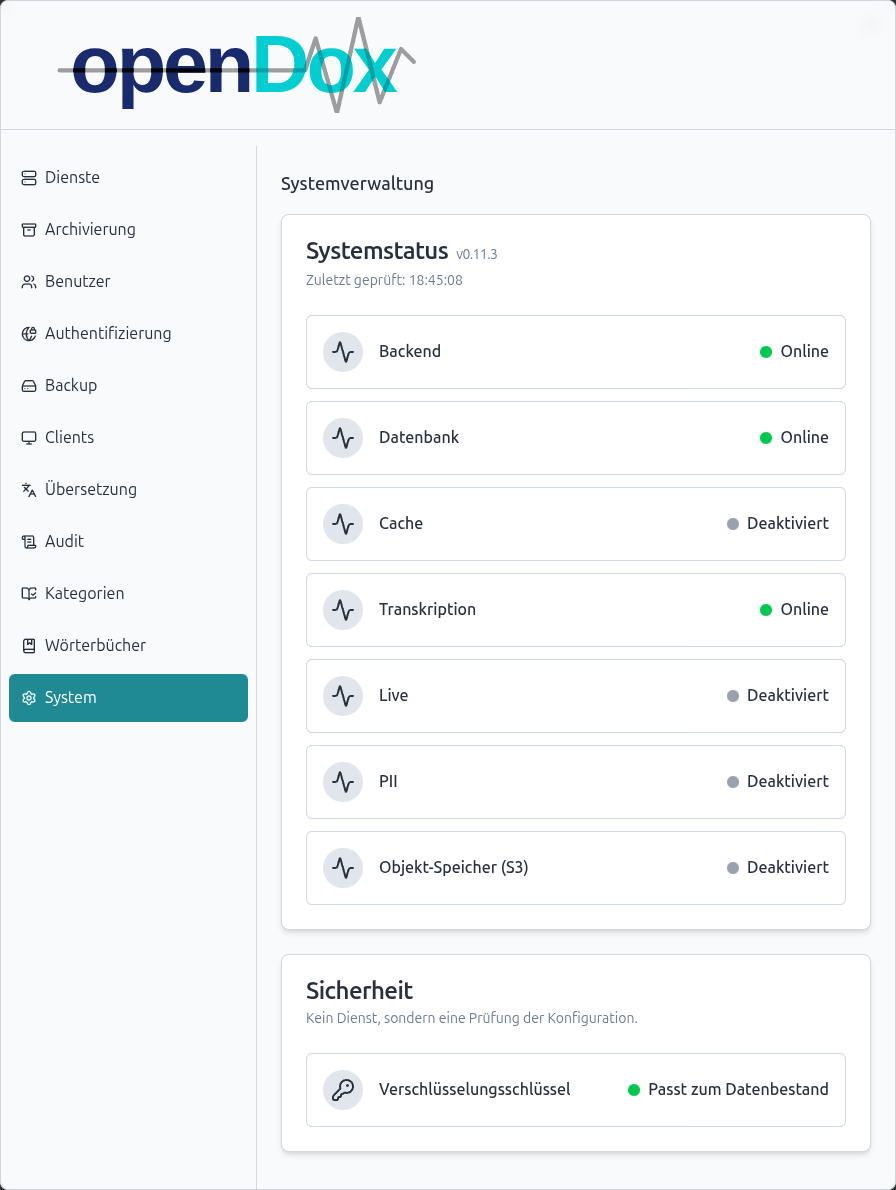
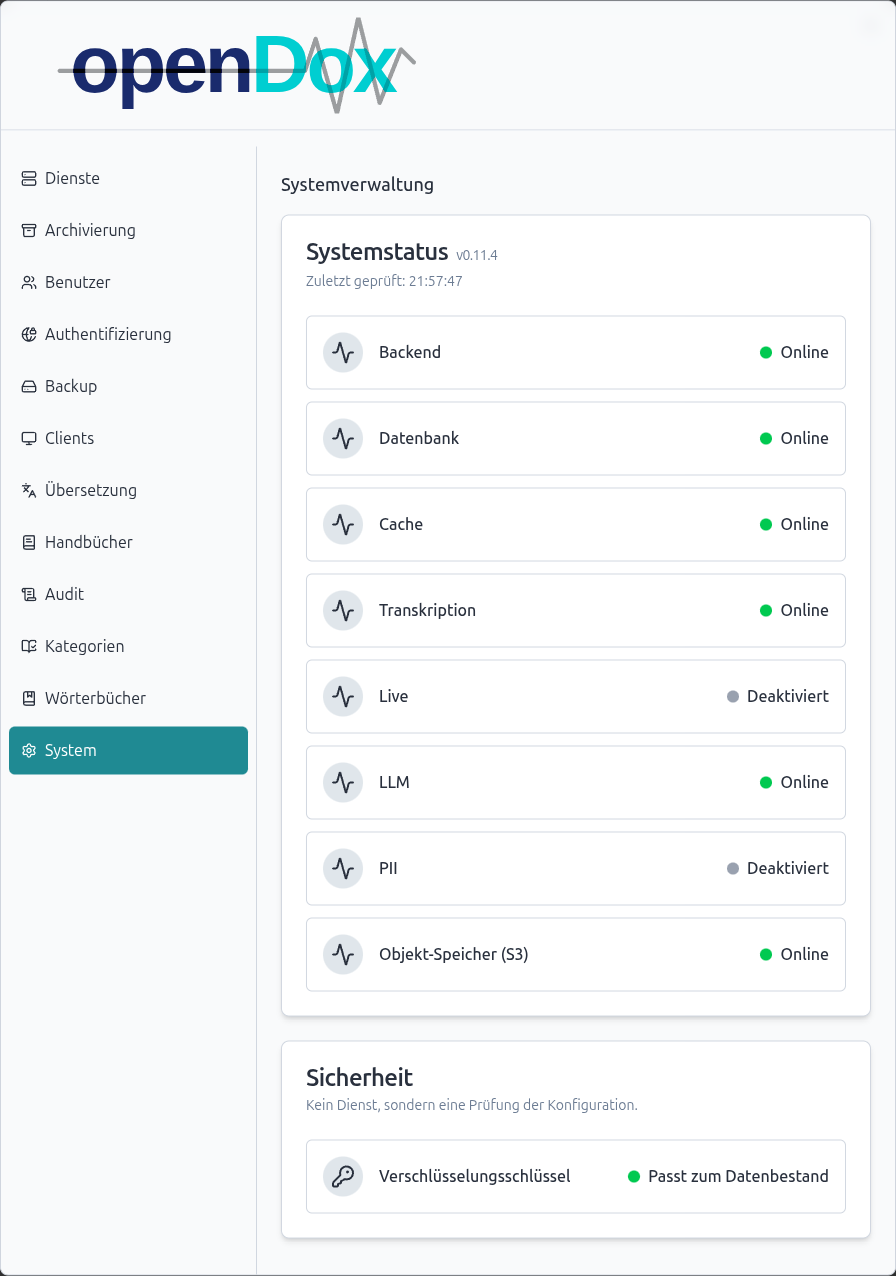
docs: Handbücher, DSFA und Agent-Guide an LLM-Status, ASR-Fehler und Handbuch-Tab angepasst
System-Screenshots neu, DSFA mit Risiko R13 zur Übersetzung.

diff --git a/.agents/AGENTS.md b/.agents/AGENTS.md
@@ -121,7 +121,7 @@ No automated integration tests for Docker/full-stack scenarios.
 - `asr_factory.py` creates backend instances based on `live_backend` setting (`"parakeet"` / `"disabled"`). `"parakeet"` → `ParakeetStreamBackend` (VAD-segmented streaming over WS). The final backend is always `OpenAICompatibleBackend`. There is deliberately **no** near-live Whisper path (it was removed: fixed-chunk transcription with overlap/LLM smoothing worked poorly) — live text is Parakeet-only, and if the Parakeet connection fails the recording just continues without live text; the final transcription is unaffected.
 - When `live_backend="parakeet"` and `live_api_endpoint` is None, factory falls back to `PARAKEET_API_ENDPOINT` env var
 - Parakeet live text: `record.py` forwards every float32 PCM frame to the Parakeet server's WS; the server's `StreamingSession` runs Silero VAD + Parakeet ONNX, commits segments at pauses (re-decoding the open segment every 0.4s for a live partial) and streams back `{"partial": <open segment>}` / `{"committed": ..., "delta": ...}` / `{"final": ...}`. `record.py` relays `delta` as `{"text": delta}` (appended to `stableTranscript` client-side) and `partial` as `{"partial": ...}` (renders as the live tail). No LLM correction (Parakeet already outputs punctuation). Segmentation and the self-healing partial re-decode are internal to the Parakeet server (`parakeet_server/streaming.py`).
-- **Client-side VAD for the final Whisper call** (always on, whichever server): `OpenAICompatibleBackend.transcribe()` decodes the audio (`vad_segmenter.decode_audio`, ffmpeg for files), cuts silence out with Silero VAD (`modules/silero_vad.py`, onnxruntime, model `backend/components/assets/silero_vad_v6.onnx`) and sends only speech, packed into chunks of ≤ 28 s (`vad_segmenter.segment_speech`), in parallel (`MAX_PARALLEL_CHUNKS`) and with a connection-error retry, then joins the texts in recording order. `prompt` is sent with every chunk. No speech → no server call, empty text. If any chunk fails the whole call returns `""` (never a silently partial transcript). This exists because external servers differ: vLLM hallucinates "Vielen Dank." on silence, loops on a `prompt` (WER 9 % → 36 % measured) and rejects uploads > 25 MB, while the repo's `whisper_server` and e.g. hwdsl2/whisper-server filter silence themselves. `WhisperSettingsModel.vad_min_silence_ms` sets the pause length; `vad_filter` and the other tuning fields are still forwarded to the server as form fields (harmless on already-trimmed chunks).
+- **Client-side VAD for the final Whisper call** (always on, whichever server): `OpenAICompatibleBackend.transcribe()` decodes the audio (`vad_segmenter.decode_audio`, ffmpeg for files), cuts silence out with Silero VAD (`modules/silero_vad.py`, onnxruntime, model `backend/components/assets/silero_vad_v6.onnx`) and sends only speech, packed into chunks of ≤ 28 s (`vad_segmenter.segment_speech`), in parallel (`MAX_PARALLEL_CHUNKS`) and with a connection-error retry, then joins the texts in recording order. `prompt` is sent with every chunk. No speech → no server call, empty text. If audio can't be read, the server is unreachable or any chunk is rejected, `transcribe()` raises `ASRError` (`asr_backends/base.py`, carries the server's message, e.g. a 404 for an unknown model) — never a partial transcript and never `""` for a failure, so the task fails with the real cause instead of feeding an empty text to the LLM. Empty text therefore always means "no speech", and the pipeline then skips the LLM step (`background_transcription_service.py`). `GET /settings/asr-test/` uses `OpenAICompatibleBackend.probe()`: `/models` reachable **and** the configured model listed (`asr_model_not_found`, listing what the server has); a server without a model list counts as ok. The Whisper settings form saves before testing, since the endpoint tests the stored settings. This exists because external servers differ: vLLM hallucinates "Vielen Dank." on silence, loops on a `prompt` (WER 9 % → 36 % measured) and rejects uploads > 25 MB, while the repo's `whisper_server` and e.g. hwdsl2/whisper-server filter silence themselves. `WhisperSettingsModel.vad_min_silence_ms` sets the pause length; `vad_filter` and the other tuning fields are still forwarded to the server as form fields (harmless on already-trimmed chunks).
 
 ### Phonetic Term Correction
 
@@ -215,7 +215,7 @@ OIDC depends on `itsdangerous` (added to `pyproject.toml`) and reuses `httpx` + 
 
 ### System Health Check
 
-`GET /api/v1/settings/services-health/` (`settings_routes.py`) backs the admin "System" tab (`SystemSettings.tsx`, polled every 10s) — one `async def check_x()` closure per service (Postgres, Redis, Whisper, Parakeet, EntityGuard, S3), run concurrently via `asyncio.gather`. Each returns `"online"`/`"offline"`/`"disabled"` — `"disabled"` short-circuits before any network call when a service isn't configured (e.g. `audio_storage.is_configured()` for S3, `isinstance(session_store, RedisSessionStore)` for Redis), so an intentionally-off feature doesn't show as a false "offline". The frontend is fully generic — it just renders whatever `{name, status}` list comes back, so adding a new check only requires backend changes. The `ENCRYPTION_KEY` check is deliberately **not** in that list (it is no service): it comes back as a separate `encryption_key: "match"|"mismatch"` field (configured key vs. the fingerprint in `EncryptionKeyState`) and renders in its own "Sicherheit" card.
+`GET /api/v1/settings/services-health/` (`settings_routes.py`) backs the admin "System" tab (`SystemSettings.tsx`, polled every 10s) — one `async def check_x()` closure per service (Postgres, Redis, Whisper, Parakeet, LLM, EntityGuard, S3), run concurrently via `asyncio.gather`. Each returns `"online"`/`"offline"`/`"disabled"` — `"disabled"` short-circuits before any network call when a service isn't configured (e.g. `audio_storage.is_configured()` for S3, `isinstance(session_store, RedisSessionStore)` for Redis), so an intentionally-off feature doesn't show as a false "offline". `check_llm()` is a cheap `/models` call (not a chat completion — this runs every 10 s; the full probe is `/llm-test/`): `offline` on no connection, 401/403/5xx, or when the configured model is not listed (Ollama's `name:tag` counts for `name`); `disabled` when the global LLM switch is off or no endpoint is set; a server without a model list is `online`. Per-category LLM overrides are not checked. The frontend is fully generic — it just renders whatever `{name, status}` list comes back, so adding a new check only requires backend changes. The `ENCRYPTION_KEY` check is deliberately **not** in that list (it is no service): it comes back as a separate `encryption_key: "match"|"mismatch"` field (configured key vs. the fingerprint in `EncryptionKeyState`) and renders in its own "Sicherheit" card.
 
 ### Automatic Deletion (Retention)
 
@@ -338,10 +338,10 @@ OIDC and LDAP settings live in the DB (`OidcSettingsModel`, `LdapSettingsModel`)
 - **API prefix**: All modules must import `BASE_PATH` from `api.ts`, not define their own
 - **Mobile viewport height**: use `dvh` (dynamic viewport height), not `vh`, for anything meant to fill the screen/a dialog (`Recorder.tsx`, `AdminModal.tsx`, `Dashboard.tsx`'s root). Mobile browsers resize `100vh` when the address bar shows/hides, causing clipping or forced page-scroll that `dvh` avoids
 - **Flex children that must scroll internally** (e.g. `Sidebar.tsx`'s recordings `ScrollArea`) need `min-h-0` — a `flex-1` child otherwise refuses to shrink below its content's natural height and overflows the parent instead of scrolling
-- **i18n**: `i18next` + `react-i18next`. UI strings are never hardcoded — use `useTranslation('<namespace>')` (cross-namespace: `t('common:save')`). Translations are JSON in `frontend/src/i18n/locales/<lang>/<namespace>.json`, one namespace per component group (`admin`, `whisper`, `record`, `disclaimer`, `errors`, ...); `src/i18n/index.ts` loads every file via `import.meta.glob`, so a new namespace file needs no registration. German is the source language and the fallback (`fallbackLng: 'de'`). `src/i18n/__tests__/locales.test.ts` fails if any language lacks a key, has an empty value or different `{{placeholders}}` than German — keep the languages in sync. **Adding a language**: create `locales/<code>/` with a file for every German namespace, add it to `SUPPORTED_LANGUAGES` in `i18n/index.ts` and to `UI_LANGUAGES` in `backend/components/models/user_model.py`. The chosen language is stored per user (`User.ui_language`, `PUT /api/v1/settings/my-language/`, exposed on `/auth/me`; set from `ProfileModal.tsx` via `AuthContext.updateUiLanguage`); before login it falls back to `localStorage["ui_language"]`, then the browser language. It is unrelated to the transcription language (`WhisperSettingsModel.language`). Non-React code (e.g. `lib/archive.ts`) uses `i18n.t('ns:key')` directly. Dates are formatted with `i18n.language`; recording timestamps stay stored as German-format strings (`parseRecordTimestamp()` parses them) and are only *displayed* via `formatRecordTimestamp()`. Tests run in German (`src/test/setup.ts`); switch with `await i18n.changeLanguage('en')` and restore it in `finally`.
+- **i18n**: `i18next` + `react-i18next`. UI strings are never hardcoded — use `useTranslation('<namespace>')` (cross-namespace: `t('common:save')`). Translations are JSON in `frontend/src/i18n/locales/<lang>/<namespace>.json`, one namespace per component group (`admin`, `whisper`, `record`, `disclaimer`, `errors`, ...); `src/i18n/index.ts` loads every file via `import.meta.glob`, so a new namespace file needs no registration. German is the source language and the fallback (`fallbackLng: 'de'`); shipped UI languages: `de`, `en`, `es`. `src/i18n/__tests__/locales.test.ts` fails if any language lacks a key, has an empty value or different `{{placeholders}}` than German — keep the languages in sync. **Adding a language**: create `locales/<code>/` with a file for every German namespace, add it to `SUPPORTED_LANGUAGES` in `i18n/index.ts` and to `UI_LANGUAGES` in `backend/components/models/user_model.py`. The chosen language is stored per user (`User.ui_language`, `PUT /api/v1/settings/my-language/`, exposed on `/auth/me`; set from `ProfileModal.tsx` via `AuthContext.updateUiLanguage`); before login it falls back to `localStorage["ui_language"]`, then the browser language. It is unrelated to the transcription language (`WhisperSettingsModel.language`). Non-React code (e.g. `lib/archive.ts`) uses `i18n.t('ns:key')` directly. Dates are formatted with `i18n.language`; recording timestamps stay stored as German-format strings (`parseRecordTimestamp()` parses them) and are only *displayed* via `formatRecordTimestamp()`. Tests run in German (`src/test/setup.ts`); switch with `await i18n.changeLanguage('en')` and restore it in `finally`.
 - **API errors**: user-facing backend errors are raised with `api_error(status, code, message, **params)` (`backend/components/modules/api_errors.py`) → `detail={"code","message","params"}`. The frontend renders them with `apiErrorMessage(body, fallback)` (`lib/apiError.ts`), which looks up `errors:<code>` and falls back to `message`, then to legacy string details. Probe endpoints (`/asr-test/`) return `{"ok": false, "code", "error"}` and go through the same helper. New user-facing errors need a code + an `errors.json` entry in every language. The OIDC callback errors (`oidc_routes.py`) stay plain strings on purpose — the browser shows that JSON directly after a redirect, the SPA never renders it.
 - **Profile modal**: the user menu has "Profil" (→ `ProfileModal.tsx`, same layout as `AdminModal`: language, "Meine Wörterbücher", own categories (tab only while `GET /settings/category-policy/` says `personal_categories_allowed`) for **every** role via `CategorySettings scope="personal"` — lists only the caller's own categories and POSTs `scope: "personal"`, so admins/moderators get personal categories there too; without it privileged roles create global ones, appearance) and — for non-`user` roles — "Administration".
-- **AdminModal nav**: "Dienste" tab has Whisper/ASR + LLM sub-tabs. "Audio" tab holds `AudioConfig.tsx` (audio-download settings, incl. format/bitrate) followed by `FailedTranscriptions.tsx` (retry list for failed transcriptions, see Audio File Cleanup). "Authentifizierung" tab has LDAP + OIDC/SSO + Sitzung (idle logout, `SessionSettings.tsx`) sub-tabs; "System" shows only the service status. Whisper config tab grid columns depend on `live_backend` value (`grid-cols-3` vs `grid-cols-4`) — the "Qualität" tab only exists when `live_backend === 'api'`. "Wörterbücher" tab (next to "Kategorien", also for moderators) holds `DictionarySettings scope="global"`. "Handbücher" tab (`ManualDownloads.tsx`, admin + demo_viewer) links the release PDFs of the running version via `GET /settings/manuals/` (file names follow `scripts/build_handbuch.sh`; `MANUALS_DOWNLOAD_BASE_URL` with `{version}` overrides the GitHub base). "Audit" tab (`AuditLog.tsx`) is admin-only — hidden from demo_viewer too, whose GETs would 403 and fill the log with `access.denied`.
+- **AdminModal nav**: "Dienste" tab has Whisper/ASR + LLM sub-tabs. "Audio" tab holds `AudioConfig.tsx` (audio-download settings, incl. format/bitrate) followed by `FailedTranscriptions.tsx` (retry list for failed transcriptions, see Audio File Cleanup). "Authentifizierung" tab has LDAP + OIDC/SSO + Sitzung (idle logout, `SessionSettings.tsx`) sub-tabs; "System" shows only the service status. Whisper config tab grid columns depend on `live_backend` value (`grid-cols-3` vs `grid-cols-4`) — the "Qualität" tab only exists when `live_backend === 'api'`. "Wörterbücher" tab (next to "Kategorien", also for moderators) holds `DictionarySettings scope="global"`. "Handbücher" tab (`ManualDownloads.tsx`, admin + demo_viewer) links the release PDFs of the running version via `GET /settings/manuals/` (open to every signed-in user: non-admin roles get only the user manual and no release-page link — the profile dialog's "Handbuch" tab uses `<ManualDownloads variant="user" />`) (file names follow `scripts/build_handbuch.sh`; `MANUALS_DOWNLOAD_BASE_URL` with `{version}` overrides the GitHub base). "Audit" tab (`AuditLog.tsx`) is admin-only — hidden from demo_viewer too, whose GETs would 403 and fill the log with `access.denied`.
 
 ## Python Style (enforced by ruff)
 

diff --git a/docs/dsfa-vorlage.md b/docs/dsfa-vorlage.md
@@ -1,6 +1,6 @@
 # Datenschutz-Folgenabschätzung (DSFA): Vorlage für Betreiber von openDox
 
-> Stand: 2026-11-06 · gilt für openDox ab Version 0.11.x
+> Stand: 2026-11-25 · gilt für openDox ab Version 0.12.x
 >
 > **Diese Vorlage ist keine fertige DSFA.** Durchführen und verantworten muss die
 > DSFA nach Art. 35 DSGVO der **Verantwortliche**, also die Klinik, Praxis oder das MVZ,
@@ -99,7 +99,7 @@ Der vollständige Fluss mit Diagramm steht in [`data-mapping.md`](data-mapping.m
 | Empfänger | Ort | Eintrag |
 |---|---|---|
 | Whisper, Parakeet, PostgreSQL, Redis, Garage | im openDox-Stack | ► Betreiber: Hosting (eigenes RZ, Dienstleister?) |
-| LLM-Endpunkt | konfigurierbar | ► Betreiber: Anbieter, Standort, Drittland ja/nein, AV-Vertrag |
+| LLM-Endpunkt | konfigurierbar (Zusammenfassung und, falls freigegeben, Übersetzung; also auch Gesundheitsdaten in Fremdsprache) | ► Betreiber: Anbieter, Standort, Drittland ja/nein, AV-Vertrag |
 | PII-Sanitizer | konfigurierbar | ► Betreiber: Anbieter, Standort, AV-Vertrag |
 | LDAP/AD, OIDC-Provider | konfigurierbar (nur Anmeldedaten) | ► Betreiber: |
 | Externer Objektspeicher (statt Garage) | konfigurierbar (nur verschlüsselte Blobs) | ► Betreiber: |
@@ -118,7 +118,10 @@ Der vollständige Fluss mit Diagramm steht in [`data-mapping.md`](data-mapping.m
 - **Zweckbindung:** Der Zweck ist in der Zweckbestimmung festgelegt. Die mitgelieferte
   Kategorie *Standard* (nur Zeichensetzung) ist schreibgeschützt
   (`Categories.is_builtin`, `settings_routes.py`). Eigene Prompts sind
-  Betreiberentscheidung. Benutzerkategorien sind standardmäßig aus
+  Betreiberentscheidung. Die Übersetzung bleibt eine Diktierhilfe: Sie ist nicht für
+  Dolmetscher-Ersatz im Patientengespräch und nicht für Aufklärung, Einwilligung
+  oder andere Texte an Patienten bestimmt (Zweckbestimmung, Abschnitt 4, Nr. 7 und 8);
+  Diktiersprachen und berechtigte Benutzer legt der Betreiber fest. Benutzerkategorien sind standardmäßig aus
   (`personal_categories_allowed`).
 - **Datenminimierung:**
   - Das Rohaudio wird nach der Verarbeitung gelöscht.
@@ -154,7 +157,7 @@ insbesondere bei externem LLM oder Sanitizer.
 |---|---|---|---|---|---|---|
 | R1 | Offenlegung von Gesundheitsdaten an Dritte oder ins Drittland | externer LLM- oder Sanitizer-Endpunkt | gering (lokal) / hoch (extern) | hoch | Self-Hosting als Standard; Sanitizer maskiert Namen vor Zusammenfassung und Übersetzung, fail-closed (`llm_gate.sanitize_if_configured`); LLM je Kategorie abschaltbar | ► Betreiber |
 | R2 | Unvollständige Maskierung | Der Sanitizer erkennt nicht jeden Namen, besonders in fremdsprachigem Text | mittel | hoch | Die Maskierung ist ein Zusatzschutz, kein Ersatz für ein vertrauenswürdiges LLM; Übersetzung nur mit lokalem LLM betreiben | mittel |
-| R3 | Falsche Dokumentation | Hör-, Schreib- oder Übersetzungsfehler, Halluzination, vertauschte Zahlen oder Verneinungen | mittel | hoch | Prüfpflicht mit Bestätigungshaken; Original bleibt erhalten; Zahlenabgleich pro übersetztem Satz; Anti-Platzhalter-Regel (`llm_model.py`); Hinweis „Kein Medizinprodukt“ | mittel (abhängig von der Prüfdisziplin) |
+| R3 | Falsche Dokumentation | Hör-, Schreib- oder Übersetzungsfehler, Halluzination, vertauschte Zahlen oder Verneinungen | mittel | hoch | Prüfpflicht mit Bestätigungshaken; Original bleibt erhalten; Zahlenabgleich pro übersetztem Satz (Negationen, Einheiten und Seitenangaben prüft kein automatischer Abgleich); Anti-Platzhalter-Regel (`llm_model.py`); Hinweis „Kein Medizinprodukt“ | mittel (abhängig von der Prüfdisziplin) |
 | R4 | Unbefugter Zugriff auf Aufnahmen | fremde Konten, zu weite Rollen | gering | hoch | Aufnahmen nur für ihre Eigentümer (`_require_owner` in `record.py`), auch nicht für Admins; LDAP/OIDC mit Gruppen-Gate (fail-closed); Sitzungsprüfung bei Verlängerung; Leerlauf-Abmeldung; Rate-Limit beim Login | gering |
 | R5 | Offenlegung bei Diebstahl der Datenbank oder eines Backups | Zugriff auf DB-Dateien | gering | hoch | Feldverschlüsselung der Inhalte (`field_encryption.py`, `ENCRYPTION_KEY` Pflicht); Einstellungs-Backup ohne Aufnahmen und ohne Zugangsdaten | gering (Schlüssel getrennt aufbewahren) |
 | R6 | Verlust der Verfügbarkeit oder Daten | Schlüsselverlust, Ausfall | mittel | mittel | Schlüsselrotation (`key_rotation.py`); Prüfung „Verschlüsselungsschlüssel“ im System-Tab; fehlgeschlagene Aufnahmen bleiben für einen Retry erhalten | ► Betreiber: Backup- und Schlüsselkonzept |
@@ -164,6 +167,7 @@ insbesondere bei externem LLM oder Sanitizer.
 | R10 | Leistungs- und Verhaltenskontrolle von Beschäftigten | Audit-Log mit Benutzername, IP und Zeit | gering | mittel | Bewusst schmaler Umfang: keine Protokollierung der Arbeit mit eigenen Aufnahmen, keine Inhalte; Lesen nur durch Admins; automatische Löschung | ► Betreiber: Vereinbarung nach § 87 Abs. 1 Nr. 6 BetrVG |
 | R11 | Zugangsdaten zu Drittsystemen werden bekannt | API-Keys, LDAP-Bind-Passwort | gering | mittel | Schlüssel nur für Admins lesbar; nicht im Backup; Docker-Secrets (`_FILE`) | gering |
 | R12 | Unverschlüsselte Übertragung zu externen Diensten | Endpunkte ohne TLS konfiguriert | ► Betreiber | hoch | Die Anwendung erzwingt kein TLS (bekannte Lücke) | ► Betreiber: nur `https`-Endpunkte |
+| R13 | Übersetzung wird als Dolmetscher-Ersatz oder für Patiententexte genutzt | Fehlverständnis der Funktion, zu weite Freigabe | mittel | hoch | Zweckbestimmung Abschnitt 4 Nr. 7 und 8; Übersetzung standardmäßig aus, Freigabe pro Benutzer oder für alle durch den Betreiber (`translation_gate.py`); Original bleibt erhalten, Satzpaare nebeneinander, eigene Bestätigung vor dem Kopieren; Hinweis „Kein Medizinprodukt“ | ► Betreiber: Diktiersprachen und Benutzer eng halten, Anwender einweisen |
 
 ## 5. Abhilfemaßnahmen (Art. 35 Abs. 7 lit. d)
 

diff --git a/docs/opendox.md b/docs/opendox.md
@@ -18,7 +18,7 @@
 - 🕵 **PII-Sanitizer (EntityGuard, optional)**: maskiert Klarnamen vor dem LLM-Call, re-injiziert sie danach wieder in die gespeicherte Zusammenfassung
 - 🔐 **Datenschutz-Funktionen**: Feldweise Verschlüsselung für patientenbezogene Daten (inkl. Key-Rotation), automatische Löschung des Rohaudios nach erfolgreicher Verarbeitung. Ob ein Betrieb DSGVO-konform ist, hängt von der Konfiguration ab, siehe `docs/data-mapping.md`
 - 📖 **Fachbegriff-Korrektur**: optionale phonetische Korrektur (Kölner Phonetik) mit Kategorie-Glossar und privatem Nutzer-Wörterbuch
-- 🌍 **Mehrsprachige Oberfläche** (Deutsch/English) und optionaler **Desktop-Client** (`docs/client.md`)
+- 🌍 **Mehrsprachige Oberfläche** (Deutsch/English/Español) und optionaler **Desktop-Client** (`docs/client.md`)
 - 🎧 **Optionaler Audio-Download**: komprimierte, verschlüsselte Kopie der Aufnahme (Format/Bitrate wählbar) in einem S3-kompatiblen Objektspeicher (self-hosted Garage per Default)
 - 🏢 **Enterprise-Ready**: LDAP- und OIDC/SSO-Integration (inkl. Gruppen→Rollen-Mapping), Redis-Session-Store mit In-Memory-Fallback
 - 🐳 **Cloud-Native**: Docker-Compose-Stack (lokal/Demo) und Docker-Swarm-Produktionsdeploy mit PostgreSQL
@@ -738,7 +738,7 @@ Jedes S3-kompatible Backend funktioniert (generisches boto3); `docker-compose.ym
 
 ## System-Health-Check
 
-`GET /api/v1/settings/services-health/` (`settings_routes.py`) treibt den Admin-„System"-Tab (`SystemSettings.tsx`, alle 10s gepollt) — ein `async def check_x()`-Closure pro Dienst (Postgres, Redis, Whisper, Parakeet, EntityGuard, S3), alle parallel über `asyncio.gather`. Jeder liefert `"online"`/`"offline"`/`"disabled"` — `"disabled"` wird zurückgegeben, **bevor** ein Netzwerk-Call versucht wird, wenn ein Feature gar nicht konfiguriert ist (z. B. `audio_storage.is_configured()` für S3), damit ein bewusst deaktiviertes Feature nicht als falsches „offline" erscheint. Das Frontend ist vollständig generisch — es rendert einfach die zurückgegebene `{name, status}`-Liste, ein neuer Check erfordert also nur Backend-Änderungen. Die Prüfung des `ENCRYPTION_KEY` ist bewusst kein Eintrag dieser Liste (kein Dienst): Sie kommt als eigenes Feld `encryption_key` (`"match"`/`"mismatch"`) zurück und erscheint in der Karte *Sicherheit*.
+`GET /api/v1/settings/services-health/` (`settings_routes.py`) treibt den Admin-„System"-Tab (`SystemSettings.tsx`, alle 10s gepollt) — ein `async def check_x()`-Closure pro Dienst (Postgres, Redis, Whisper, Parakeet, LLM, EntityGuard, S3), alle parallel über `asyncio.gather`. Jeder liefert `"online"`/`"offline"`/`"disabled"` — `"disabled"` wird zurückgegeben, **bevor** ein Netzwerk-Call versucht wird, wenn ein Feature gar nicht konfiguriert ist (z. B. `audio_storage.is_configured()` für S3), damit ein bewusst deaktiviertes Feature nicht als falsches „offline" erscheint. Das Frontend ist vollständig generisch — es rendert einfach die zurückgegebene `{name, status}`-Liste, ein neuer Check erfordert also nur Backend-Änderungen. Die Prüfung des `ENCRYPTION_KEY` ist bewusst kein Eintrag dieser Liste (kein Dienst): Sie kommt als eigenes Feld `encryption_key` (`"match"`/`"mismatch"`) zurück und erscheint in der Karte *Sicherheit*.
 
 ---
 
@@ -1153,7 +1153,7 @@ Legend:
 | Methode | Pfad | Beschreibung |
 |---------|------|--------------|
 | GET/PUT | `/whisper-settings/` | Whisper-Konfiguration |
-| GET | `/asr-test/` | ASR-Endpunkt-Erreichbarkeit prüfen |
+| GET | `/asr-test/` | ASR-Endpunkt prüfen: erreichbar und konfiguriertes Modell vorhanden |
 | GET/PUT | `/llm-settings/` | LLM-Konfiguration |
 | GET | `/llm-test/` | Echter Chat-Completion-Probe gegen den konfigurierten LLM-Endpunkt |
 | GET/PUT | `/audio-settings/` | Audio-Download-Konfiguration (Format/Bitrate/Sample-Rate) |

diff --git a/CHANGELOG.md b/CHANGELOG.md
@@ -13,6 +13,9 @@ section as the GitHub Release notes.
 ## [Unreleased]
 
 ### Added
+- **User manual in the profile dialog** — new tab *Handbuch* for every user, with the download link of the user
+  manual of the running version. `GET /settings/manuals/` is now open to all signed-in users; roles other than admin and
+  demo viewer only get the user manual (no administration/installation manual, no release page).
 - **LLM status in the System tab** — an *LLM* line next to Live and Transcription: reachable, API key accepted and
   the configured model listed by the server (a cheap `/models` call, not a chat request); off when the LLM is disabled.
 - **Web UI in Spanish** (`es`) — selectable in the profile next to German and English, including the
@@ -38,6 +41,14 @@ section as the GitHub Release notes.
   the LLM for translation and re-inserted afterwards (fail-closed, like the summary).
 
 ### Fixed
+- **Failed transcriptions show their real cause** — a Whisper error (wrong model name, server down) used to come
+  back as an empty text, the LLM then ran on nothing and the record showed "LLM response was empty". The ASR backend
+  now raises `ASRError` with the server's message, and an empty transcript skips the LLM step.
+- **ASR connection test was always green** — it only checked that the server answered. It now also checks that the
+  configured model exists (`/models`), names the available ones if not, and saves the form first, since it tests the
+  stored settings.
+- **"Unsaved changes" after a finished transcription** — the fresh transcript/summary was compared with a stale copy
+  of the record and flagged as unsaved.
 - **Transcription language setting is applied** — the final Whisper call now uses the language set under
   *Dienste → Whisper / ASR*; before it always sent `de`.
 

diff --git a/docs/handbuch/administration/handbuch.md b/docs/handbuch/administration/handbuch.md
@@ -159,9 +159,11 @@ Die finale Transkription erzeugt das maßgebliche Transkript.
 |:-----------|:-------------------------------|
 | **API Endpoint** | Adresse des Whisper-Dienstes (OpenAI-kompatibel), in der Docker-Installation `http://whisper:5002/v1`. |
 | **API Key (optional)** | Muss dem beim Whisper-Dienst hinterlegten Schlüssel entsprechen (`WHISPER_API_KEY`). |
-| **Modell** | Modellname, den der Whisper-Dienst erwartet, z. B. `large-v3-turbo`. |
+| **Modell** | Modellname, den der Whisper-Dienst erwartet, z. B. `large-v3-turbo`. Manche Dienste (z. B. vLLM) erwarten einen Präfix wie `openai/whisper-large-v3-turbo`; **Verbindung testen** meldet ein unbekanntes Modell und nennt die verfügbaren. |
 | **Fachbegriff-Korrektur (Phonetik/Fuzzy)** | Schaltet die automatische Korrektur mit Wörterbüchern ein. Standard: aus. |
 | **Schwellenwert (0-100)** | Wie ähnlich ein Wort einem Wörterbuchbegriff sein muss, damit es ersetzt wird. |
+
+Mit **Verbindung testen** speichert openDox zuerst die Einstellungen und prüft dann, ob der Dienst erreichbar ist und das Modell kennt.
 
 ![Dienste → Whisper / ASR → Final](bilder/administration/04-whisper-final.png)
 
@@ -818,6 +820,7 @@ alle zehn Sekunden.
 | **Cache** | Redis (Sitzungen laufender Aufnahmen). |
 | **Transkription** | Whisper-Dienst für die finale Transkription. |
 | **Live** | Parakeet-Dienst für die Live-Vorschau. |
+| **LLM** | Sprachmodell für Zusammenfassung und Übersetzung. Prüft Erreichbarkeit, Zugangsschlüssel und ob das eingestellte Modell beim Dienst vorhanden ist. Gilt für das globale Modell, nicht für Modelle einzelner Kategorien. |
 | **PII** | PII-Sanitizer. |
 | **Objekt-Speicher (S3)** | Speicher für Audio-Download und ausgelagerte Fehlaufnahmen. |
 

diff --git a/README.md b/README.md
@@ -15,7 +15,7 @@ openDox ist eine webbasierte Plattform für die medizinische Dokumentation. Ärz
 | **Backend** | Python 3.12+, FastAPI, SQLModel, Alembic |
 | **Frontend** | React 18, TypeScript, Vite, shadcn/ui, Tailwind CSS |
 | **Transkription** | Zweistufig: Live per Parakeet (VAD-Streaming über WebSocket), final per Whisper (faster-whisper, OpenAI-kompatible API); beide als Docker-Services mitgeliefert |
-| **Oberfläche** | Mehrsprachig (Deutsch/English, `i18next`), Sprache pro Nutzer |
+| **Oberfläche** | Mehrsprachig (Deutsch/English/Español, `i18next`), Sprache pro Nutzer |
 | **Desktop-Client** | Optional: separater openDox-Client (Go/Wails), Verteilung und Richtlinie im Admin-Bereich, siehe [`docs/client.md`](docs/client.md) |
 | **Zusammenfassung** | Externes LLM via LangChain/OpenAI-kompatible API |
 | **Datenbank** | PostgreSQL (Docker) oder SQLite (Fallback) |

diff --git a/docs/handbuch/benutzer/handbuch.md b/docs/handbuch/benutzer/handbuch.md
@@ -413,7 +413,7 @@ Sie den Text an, bis das Ergebnis stimmt.
 
 ## Sprache
 
-Unter **Sprache** wählen Sie die Sprache der Oberfläche. Die Einstellung gilt
+Unter **Sprache** wählen Sie die Sprache der Oberfläche (Deutsch, English oder Español). Die Einstellung gilt
 auf allen Ihren Geräten. Sie betrifft nur die Bedienoberfläche, nicht die
 Sprache, in der diktiert wird.
 
@@ -482,6 +482,13 @@ der Einrichtung ist nicht möglich.
 
 Unter **Design** wählen Sie **Hell**, **Dunkel** oder **System** (passend zur
 Einstellung Ihres Betriebssystems).
+
+## Handbuch
+
+Unter **Handbuch** laden Sie dieses Benutzerhandbuch als PDF herunter, passend
+zur Version Ihrer Installation. Der Browser holt die Datei vom Release-Server
+des Projekts oder von einem Spiegel Ihrer Einrichtung; ohne Internetzugang
+fragen Sie Ihre IT nach dem Handbuch.
 
 # Desktop-Client
 
